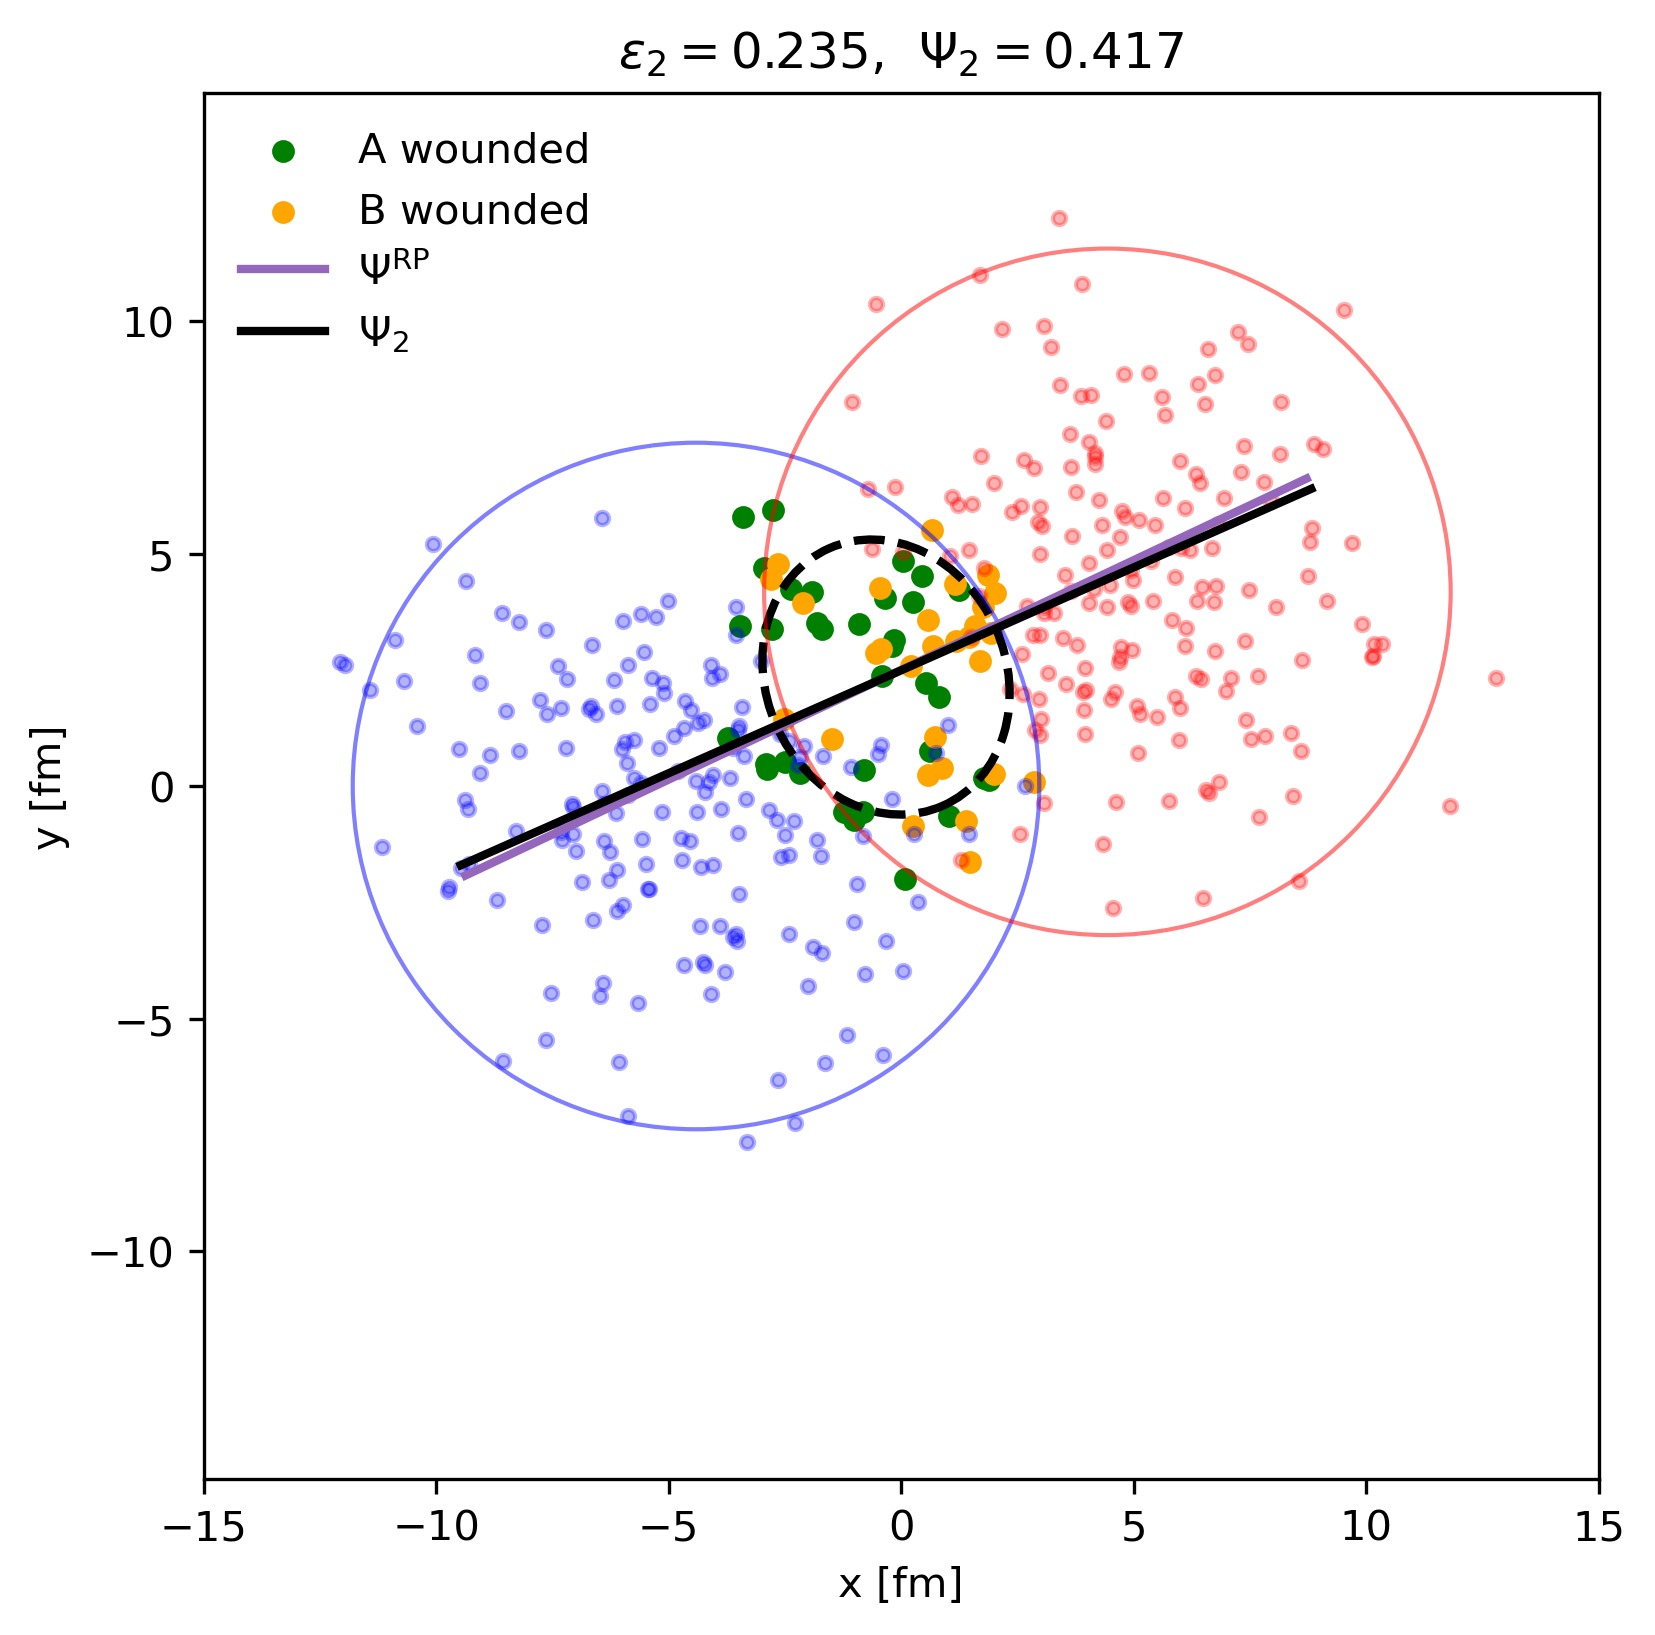
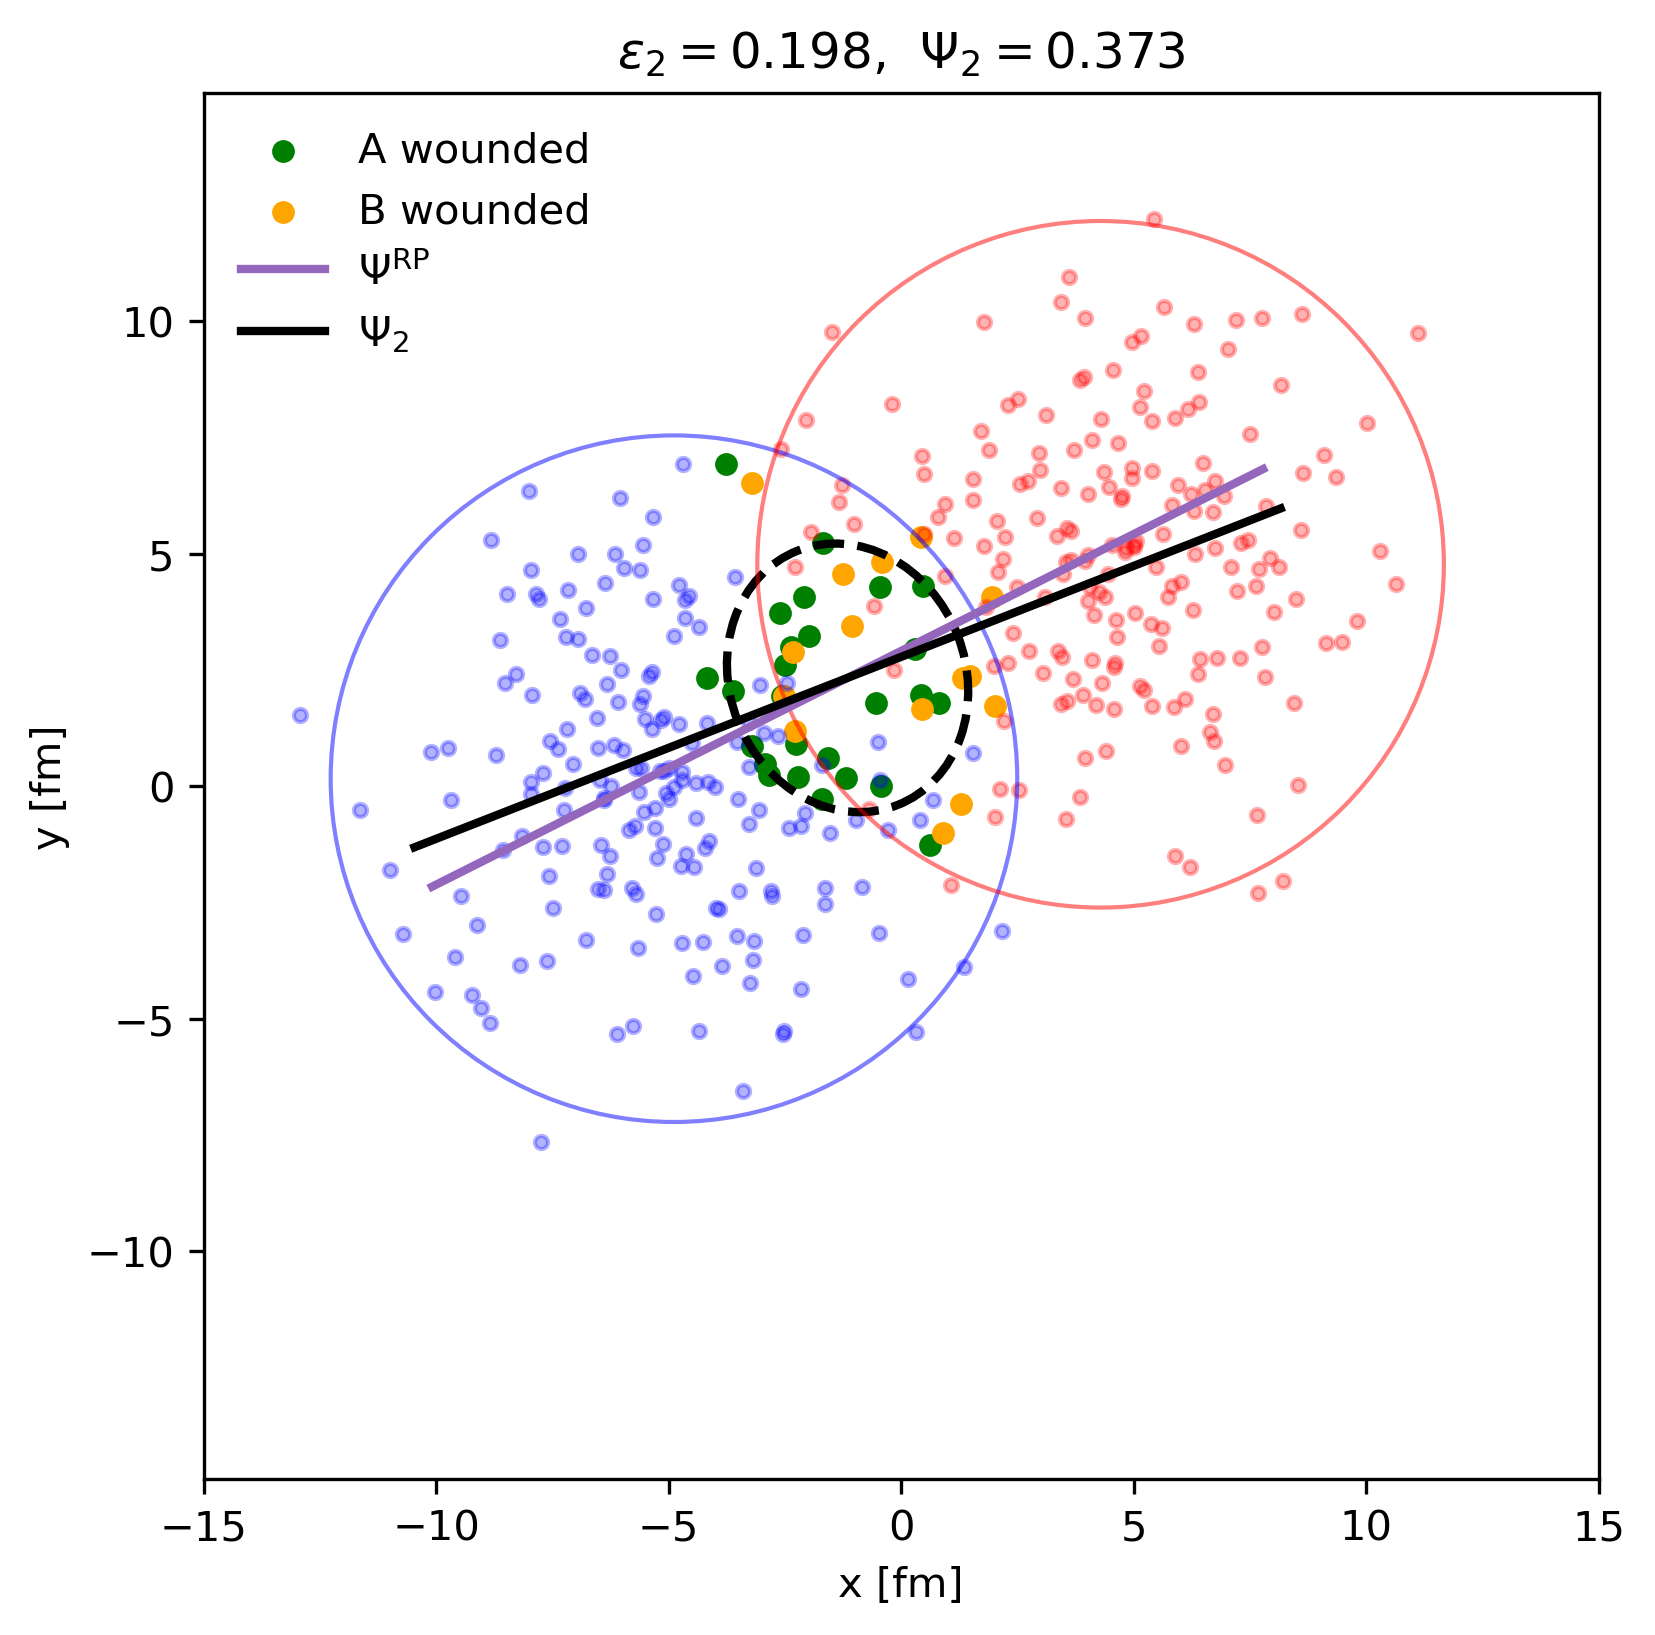
bug fixes

diff --git a/utils/plotting.py b/utils/plotting.py
@@ -3,7 +3,7 @@ import numpy as np
 
 def plot_res(par, cols, total_ecc2 = None, total_psi2 = None, ftype = "python", total_time = 0):
 
-  f,axs = plt.subplots(1,2, figsize=(14,6))
+  f,axs = plt.subplots(1,3, figsize=(26,6))
   
   ax = axs[0]
   for i, b in enumerate(par.b_array):
@@ -11,25 +11,36 @@ def plot_res(par, cols, total_ecc2 = None, total_psi2 = None, ftype = "python", 
     y = cols[i]
     ax.scatter(x, y, s=1, color="gray")
   
-  ax.set_xlim(0, par.b_array.max())
-  ax.set_xlabel("Impact parameter b (fm)", fontsize=14)
   ax.set_ylabel("Number of collisions", fontsize=14)
   
   total_events = par.n_events * len(par.b_array)
-  ax.annotate("Algorithm: "+ftype, xy=(0.6,0.9), xycoords="axes fraction")
-  ax.annotate("Total events: "+str(total_events), xy=(0.6,0.85), xycoords="axes fraction")
-  ax.annotate(f"Total time: {total_time:.2f} s", xy=(0.6,0.8), xycoords="axes fraction")
-  ax.annotate(f"Time/event: {total_time/total_events*1000:.2f} ms", xy=(0.6,0.75), xycoords="axes fraction")
+  ax.annotate("Algorithm: "+ftype, xy=(0.5,0.9), xycoords="axes fraction")
+  ax.annotate("Total events: "+str(total_events), xy=(0.5,0.85), xycoords="axes fraction")
+  ax.annotate(f"Total time: {total_time:.2f} s", xy=(0.5,0.8), xycoords="axes fraction")
+  ax.annotate(f"Time/event: {total_time/total_events*1000:.2f} ms", xy=(0.5,0.75), xycoords="axes fraction")
   
   ax = axs[1]
+  ax2 = axs[2]
   
   if total_ecc2 is not None and total_psi2 is not None:
-    ax.errorbar(par.b_array, np.mean(total_ecc2,axis=1), yerr=np.std(total_ecc2,axis=1), fmt='o-', label=r'Eccentricity $\epsilon_2$')
-    ax.errorbar(par.b_array, np.mean(total_psi2, axis=1), yerr=np.std(total_psi2,axis=1), fmt='s-', label=r'Participant plane angle $\Psi_2$')
-    ax.set_xlabel("Impact parameter b (fm)", fontsize=14)
-    ax.set_ylabel("Eccentricity / Participant plane angle", fontsize=14)
-    ax.legend(fontsize=12)
+    total_ecc2 = np.array(total_ecc2)
+    total_psi2 = np.array(total_psi2)
+    for i, b in enumerate(par.b_array):
+      x = np.full(total_ecc2.shape[1], b)
+      y = total_ecc2[i]
+      ax.scatter(x, y, s=1, color="limegreen", alpha=1)
+      y2 = total_psi2[i]
+      ax2.scatter(x, y2, s=1, color="darkred", alpha=1)
 
+    ax.set_ylabel(r"$\varepsilon_2$", fontsize=14)
+    ax2.set_ylabel(r"$\Psi_2$", fontsize=14)
+    
+
+    ax.set_ylim(-0.5,3.5)
+    ax2.set_ylim(-0.5,3.5)
+
+  for ax in axs:
+    ax.set_xlabel("Impact parameter b (fm)", fontsize=14)
     ax.set_xlim(0, par.b_array.max())
 
   plt.show()

diff --git a/utils/glauber.py b/utils/glauber.py
@@ -3,6 +3,15 @@ from utils import nucphys
 
 
 def sample_woods_saxon(A, R, a, dmin, V0 = 1.0): # we assume V0 = 1
+  """
+  Sample A nucleon coordinates from a Woods-Saxon distribution
+  A: number of nucleons
+  R: radius parameter
+  a: diffuseness parameter
+  dmin: minimum inter-nucleon distance
+  Returns:
+    numpy array of coordinates of shape (A,3) (x,y,z)
+  """
   coords=[]
   while len(coords)<A:
     rmax = 15.0 # should be enough for all nuclei
@@ -31,13 +40,11 @@ def find_collisions(nuc1,nuc2,sig_nn=10.0):
   Returns:
     part1: boolean array of shape (N1,) indicating which nucleons in nuc1 participated in collisions
     part2: boolean array of shape (N2,) indicating which nucleons in nuc2 participated in collisions
-    bc: array of shape (M,3) with coordinates of binary collisions
-
   """
   rcut = np.sqrt(sig_nn/np.pi)
   part1 = np.zeros(len(nuc1),bool)
   part2 = np.zeros(len(nuc2),bool)
-  bc = []
+  #bc = []
   for i in range(len(nuc1)):
     for j in range(len(nuc2)):
       dx = nuc1[i,0]-nuc2[j,0]
@@ -46,10 +53,10 @@ def find_collisions(nuc1,nuc2,sig_nn=10.0):
       if dx*dx+dy*dy+dz*dz<rcut*rcut:
         part1[i] = True
         part2[j] = True
-        bc.append(((nuc1[i,0]+nuc2[j,0])/2,
-                   (nuc1[i,1]+nuc2[j,1])/2,
-                   (nuc1[i,2]+nuc2[j,2])/2))
-  return part1, part2, np.array(bc)
+        # bc.append(((nuc1[i,0]+nuc2[j,0])/2,
+        #            (nuc1[i,1]+nuc2[j,1])/2,
+        #            (nuc1[i,2]+nuc2[j,2])/2))
+  return part1, part2# , np.array(bc)
 
 
 #Nucleus	Model	<r2>1/2 [fm]	c or a [fm]	z or ? [fm]	w	q-range	reference
@@ -91,7 +98,7 @@ def calcPsi2Ecc2(nuc1, nuc2, wounded1, wounded2):
   B = nuc2[wounded2][:, :2]
   P = np.vstack([A, B])
   if P.shape[0] == 0:
-    return 0.0, 0.0
+    return -999.0, -999.0
 
   x = P[:,0] - np.mean(P[:,0])
   y = P[:,1] - np.mean(P[:,1])
@@ -105,10 +112,10 @@ def calcPsi2Ecc2(nuc1, nuc2, wounded1, wounded2):
   r2 = np.sum(w)
 
   if r2 == 0:
-    return 0.0, 0.0
+    return -999, -999 
 
   eps2 = np.sqrt(cos2**2 + sin2**2) / r2
-  psi2 = 1/2.0 * (np.arctan2(sin2, cos2) + np.pi)
+  psi2 = 1/2.0 * (np.arctan2(sin2,cos2) + np.pi) # shift from -pi,pi to 0,2pi
 
   return eps2, psi2
 

diff --git a/main.py b/main.py
@@ -13,7 +13,7 @@ from utils import nucphys
 class setup:
   A: int = 206  # nucleon number
   b_array: np.ndarray = field(default_factory=lambda: np.arange(0, 20, .05))
-  #b_array: np.ndarray = field(default_factory=lambda: np.arange(0, 10, 1))
+  #b_array: np.ndarray = field(default_factory=lambda: np.arange(0, 20, 0.5))
 
   n_events: int = 50
   # save_path: str = "glauber_results.npz"
@@ -26,14 +26,14 @@ def main_purefort():
   cols = np.zeros((par.n_events,par.b_array.shape[0]), 'f', order='F')
   ecc2 = np.zeros((par.n_events,par.b_array.shape[0]), 'f', order='F')
   psi2 = np.zeros((par.n_events,par.b_array.shape[0]), 'f', order='F')
-  nucphys.simulation.proc(par.b_array, par.A, cols, psi2, ecc2)
+  nucphys.simulation.proc(par.b_array, par.A, cols, ecc2, psi2)
   time1 = time.time()
   print(f"Pure fortran (sim) version took {time1 - time0:.2f} seconds")
 
   cols = cols.T
   ecc2 = ecc2.T
   psi2 = psi2.T
-  plot_res(par, cols, psi2, ecc2, ftype="purefortran", total_time = time1 - time0)
+  plot_res(par, cols, ecc2, psi2, ftype="purefortran", total_time = time1 - time0)
 
 
 
@@ -67,10 +67,8 @@ def main_fortran():
       wounded1 = wounded1.astype(bool)
       wounded2 = wounded2.astype(bool)
 
-
-      #wounded1, wounded2, bc = find_collisions(nuc1, nuc2)
       bcols.append(np.count_nonzero(wounded1) + np.count_nonzero(wounded2))
-      psi, ecc = calcPsi2Ecc2(nuc1, nuc2, wounded1, wounded2)
+      ecc, psi = calcPsi2Ecc2(nuc1, nuc2, wounded1, wounded2)
       psi2.append(psi)
       ecc2.append(ecc)
     cols.append(bcols)
@@ -106,9 +104,9 @@ def main_py():
       
       nuc1[:,0]-=b/2
       nuc2[:,0]+=b/2
-      wounded1, wounded2, bc = find_collisions(nuc1, nuc2)
+      wounded1, wounded2 = find_collisions(nuc1, nuc2)
       bcols.append(np.count_nonzero(wounded1) + np.count_nonzero(wounded2))
-      psi, ecc = calcPsi2Ecc2(nuc1, nuc2, wounded1, wounded2)
+      ecc, psi = calcPsi2Ecc2(nuc1, nuc2, wounded1, wounded2)
       psi2.append(psi)
       ecc2.append(ecc)
     cols.append(bcols)

diff --git a/plot_collision.py b/plot_collision.py
@@ -45,7 +45,7 @@ def collision_plane():
   nucphys.nucutils.find_collisions(nuc1.coords,nuc2.coords, 10.0, wounded1, wounded2, A) 
   wounded1 = wounded1.astype(bool)
   wounded2 = wounded2.astype(bool)
-  #wounded1, wounded2, _ = find_collisions(nuc1, nuc2)
+  #wounded1, wounded2 = find_collisions(nuc1, nuc2)
   eps2, psi2 = calcPsi2Ecc2(nuc1, nuc2, wounded1, wounded2)
 
   f = plt.figure(figsize=(6,6))
@@ -120,7 +120,7 @@ def col_anim():
 
   nuc1[:,0]-=b/2
   nuc2[:,0]+=b/2
-  wounded1, wounded2, _ = find_collisions(nuc1, nuc2)
+  wounded1, wounded2 = find_collisions(nuc1, nuc2)
   eps2, psi2 = calcPsi2Ecc2(nuc1, nuc2, wounded1, wounded2)
 
   def init():
@@ -133,7 +133,7 @@ def col_anim():
     #nonlocal nuc1, nuc2, collisions, wounded1, wounded2
     nuc1[:,2] -= 0.5
     nuc2[:,2] += 0.5
-    part1, part2, bc = find_collisions(nuc1, nuc2)
+    part1, part2 = find_collisions(nuc1, nuc2)
 
     p1 = np.asarray(part1)
     p2 = np.asarray(part2)
